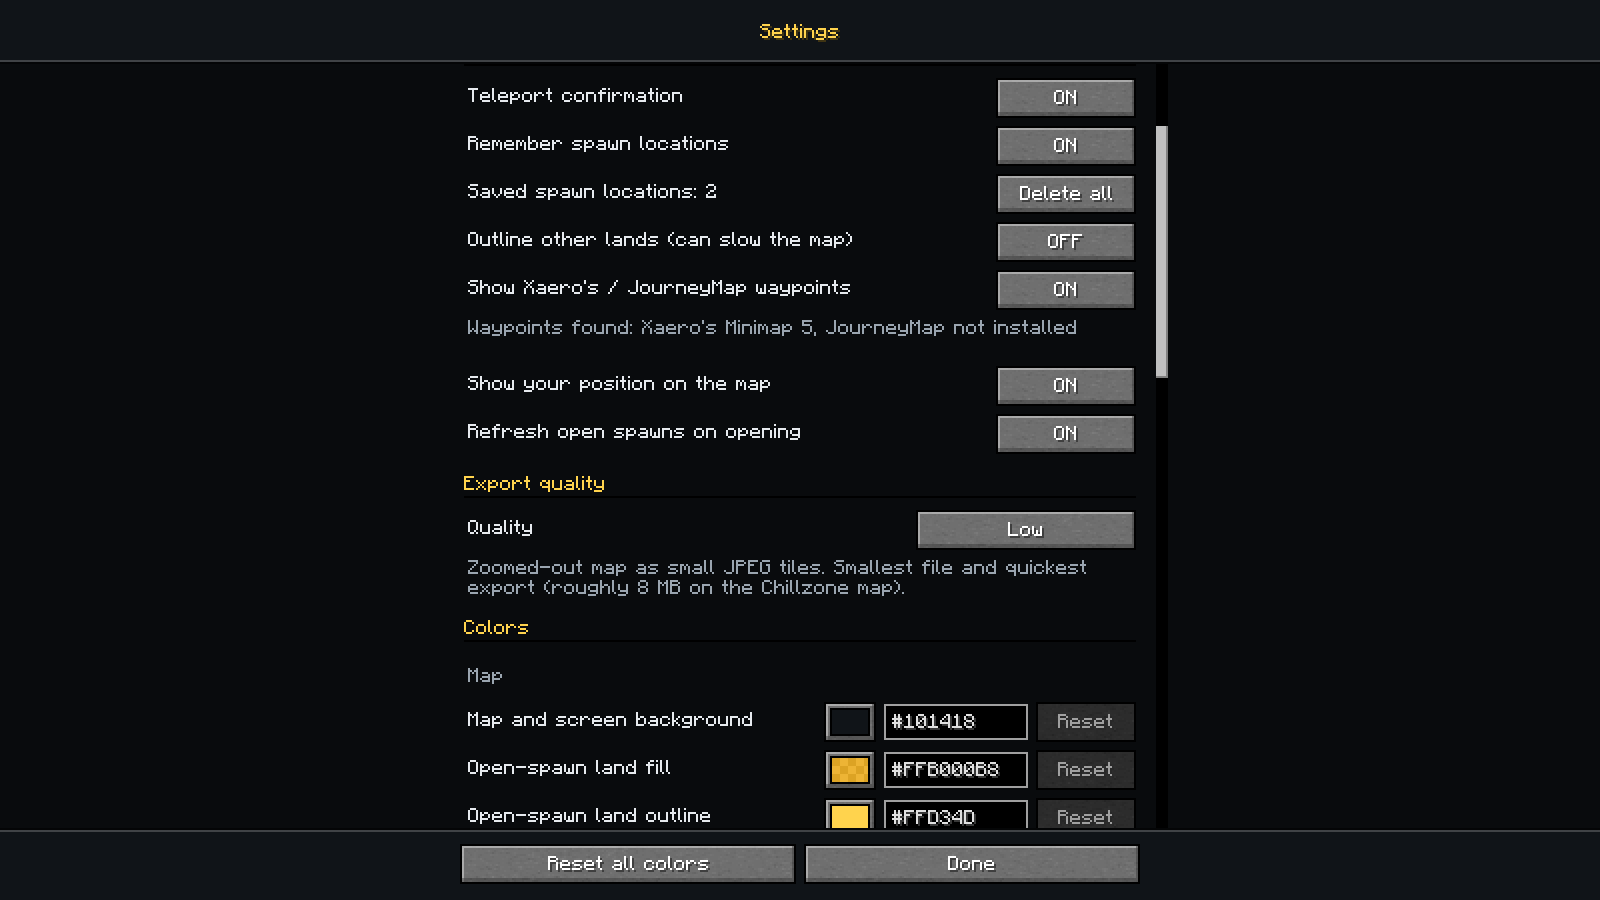
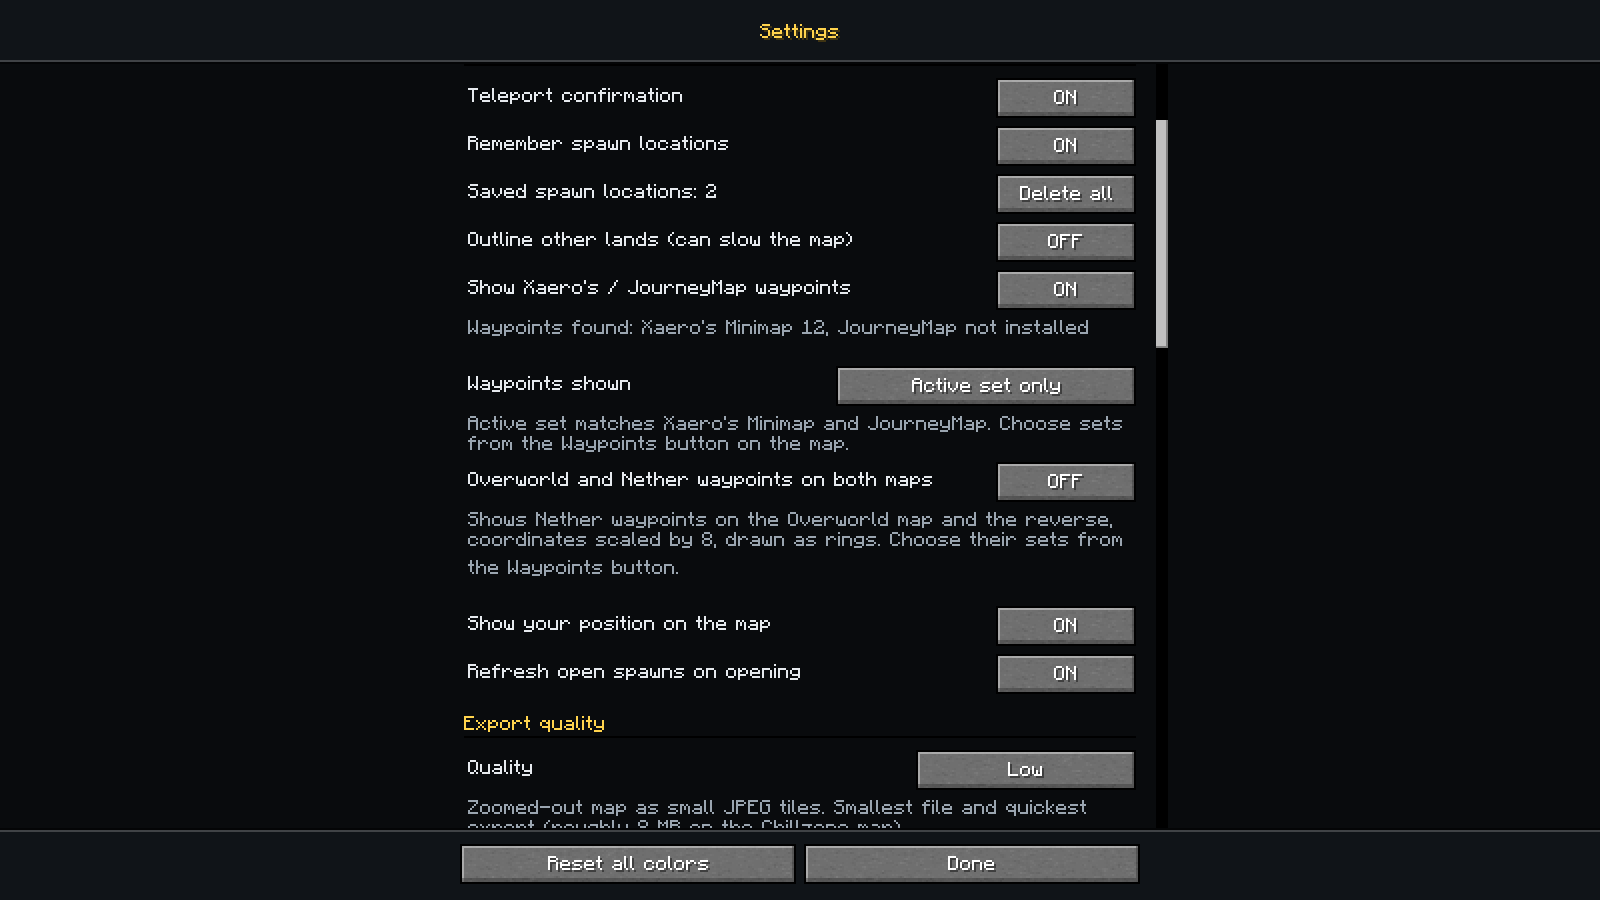
Refresh the README screenshots and add one for the waypoint sets screen
All screenshots are retaken from the synthetic demo data (fake lands, fake
players, fake waypoints) and now show the dimension and Waypoints buttons and the
current settings rows. The showcase scenario in the dev harness gets a few more
waypoint sets and a Nether set so the new sets screen can be captured.

diff --git a/src/main/java/landmark/client/DevHarness.java b/src/main/java/landmark/client/DevHarness.java
@@ -506,12 +506,23 @@ final class DevHarness {
 				java.nio.file.Path mine = mc.gameDirectory.toPath().resolve("xaero/minimap/Multiplayer_play.example.invalid/dim%0");
 				java.nio.file.Files.createDirectories(mine);
 				java.nio.file.Files.write(mine.resolve("mw$default_1.txt"), java.util.List.of(
-					"sets:gui.xaero_default",
+					"sets:gui.xaero_default:Farms:Mining",
 					"waypoint:Home Base:H:0:70:0:12:false:0:gui.xaero_default:false:0:0:false",
 					"waypoint:Iron Mine:I:900:~:-700:6:false:0:gui.xaero_default:false:0:0:false",
 					"waypoint:Farm:F:-1500:64:1100:10:false:0:gui.xaero_default:false:0:0:false",
 					"waypoint:Harbour:A:1600:64:900:11:false:0:gui.xaero_default:false:0:0:false",
-					"waypoint:gui.xaero_deathpoint:D:-600:70:-900:0:false:1:gui.xaero_default:false:0:0:false"));
+					"waypoint:gui.xaero_deathpoint:D:-600:70:-900:0:false:1:gui.xaero_default:false:0:0:false",
+					"waypoint:Wheat:W:-400:64:300:10:false:0:Farms:false:0:0:false",
+					"waypoint:Sugar Cane:S:-450:64:380:10:false:0:Farms:false:0:0:false",
+					"waypoint:Quarry:Q:1200:40:-300:6:false:0:Mining:false:0:0:false",
+					"waypoint:Deep Shaft:D:1250:-20:-380:6:false:0:Mining:false:0:0:false"));
+				java.nio.file.Path nether = mine.resolveSibling("dim%-1");
+				java.nio.file.Files.createDirectories(nether);
+				java.nio.file.Files.write(nether.resolve("mw$default_1.txt"), java.util.List.of(
+					"sets:Portals:gui.xaero_default",
+					"waypoint:Home Gate:G:10:64:10:3:false:0:Portals:false:0:0:false",
+					"waypoint:Harbour Gate:G:200:64:110:3:false:0:Portals:false:0:0:false",
+					"waypoint:Fortress:F:-80:70:60:5:false:0:gui.xaero_default:false:0:0:false"));
 			} catch (java.io.IOException e) {
 				LandmarkClient.LOGGER.warn("fixture failed", e);
 			}
@@ -596,7 +607,13 @@ final class DevHarness {
 			landmark.compat.Platform.show(mc, new HelpScreen(mapScreen));
 		} else if (f == 355) {
 			shot.run(); // 8: in-game instructions
-		} else if (f == 365) {
+		} else if (f == 360) {
+			state.config.crossDimensionWaypoints = true; // in memory only: shows the other dimension's sets under their own heading
+			landmark.compat.Platform.show(mc, new WaypointSetsScreen(mapScreen));
+		} else if (f == 385) {
+			shot.run(); // 9: the waypoint sets screen
+		} else if (f == 395) {
+			state.config.crossDimensionWaypoints = false;
 			mc.stop();
 		}
 	}

diff --git a/README.md b/README.md
@@ -164,6 +164,8 @@ If you use either mod, the waypoints you made there appear on Landmark's map. No
   scaled by 8. They are drawn as rings, and the tooltip gives their real position. Their sets are listed on the sets screen
   under their own heading ("From The Nether"), separate from the viewed dimension's sets, so same-named sets never mix. The End
   and modded dimensions are not converted.
+  ![The waypoint sets screen, with the Nether's sets under their own heading](docs/images/waypoint-sets.png)
+
 - Waypoints stay visible when you hide claims, because they are not claims. Colours come from the other mod. Settings shows how
   many were found from each source, and you can turn the whole thing off there.
 
